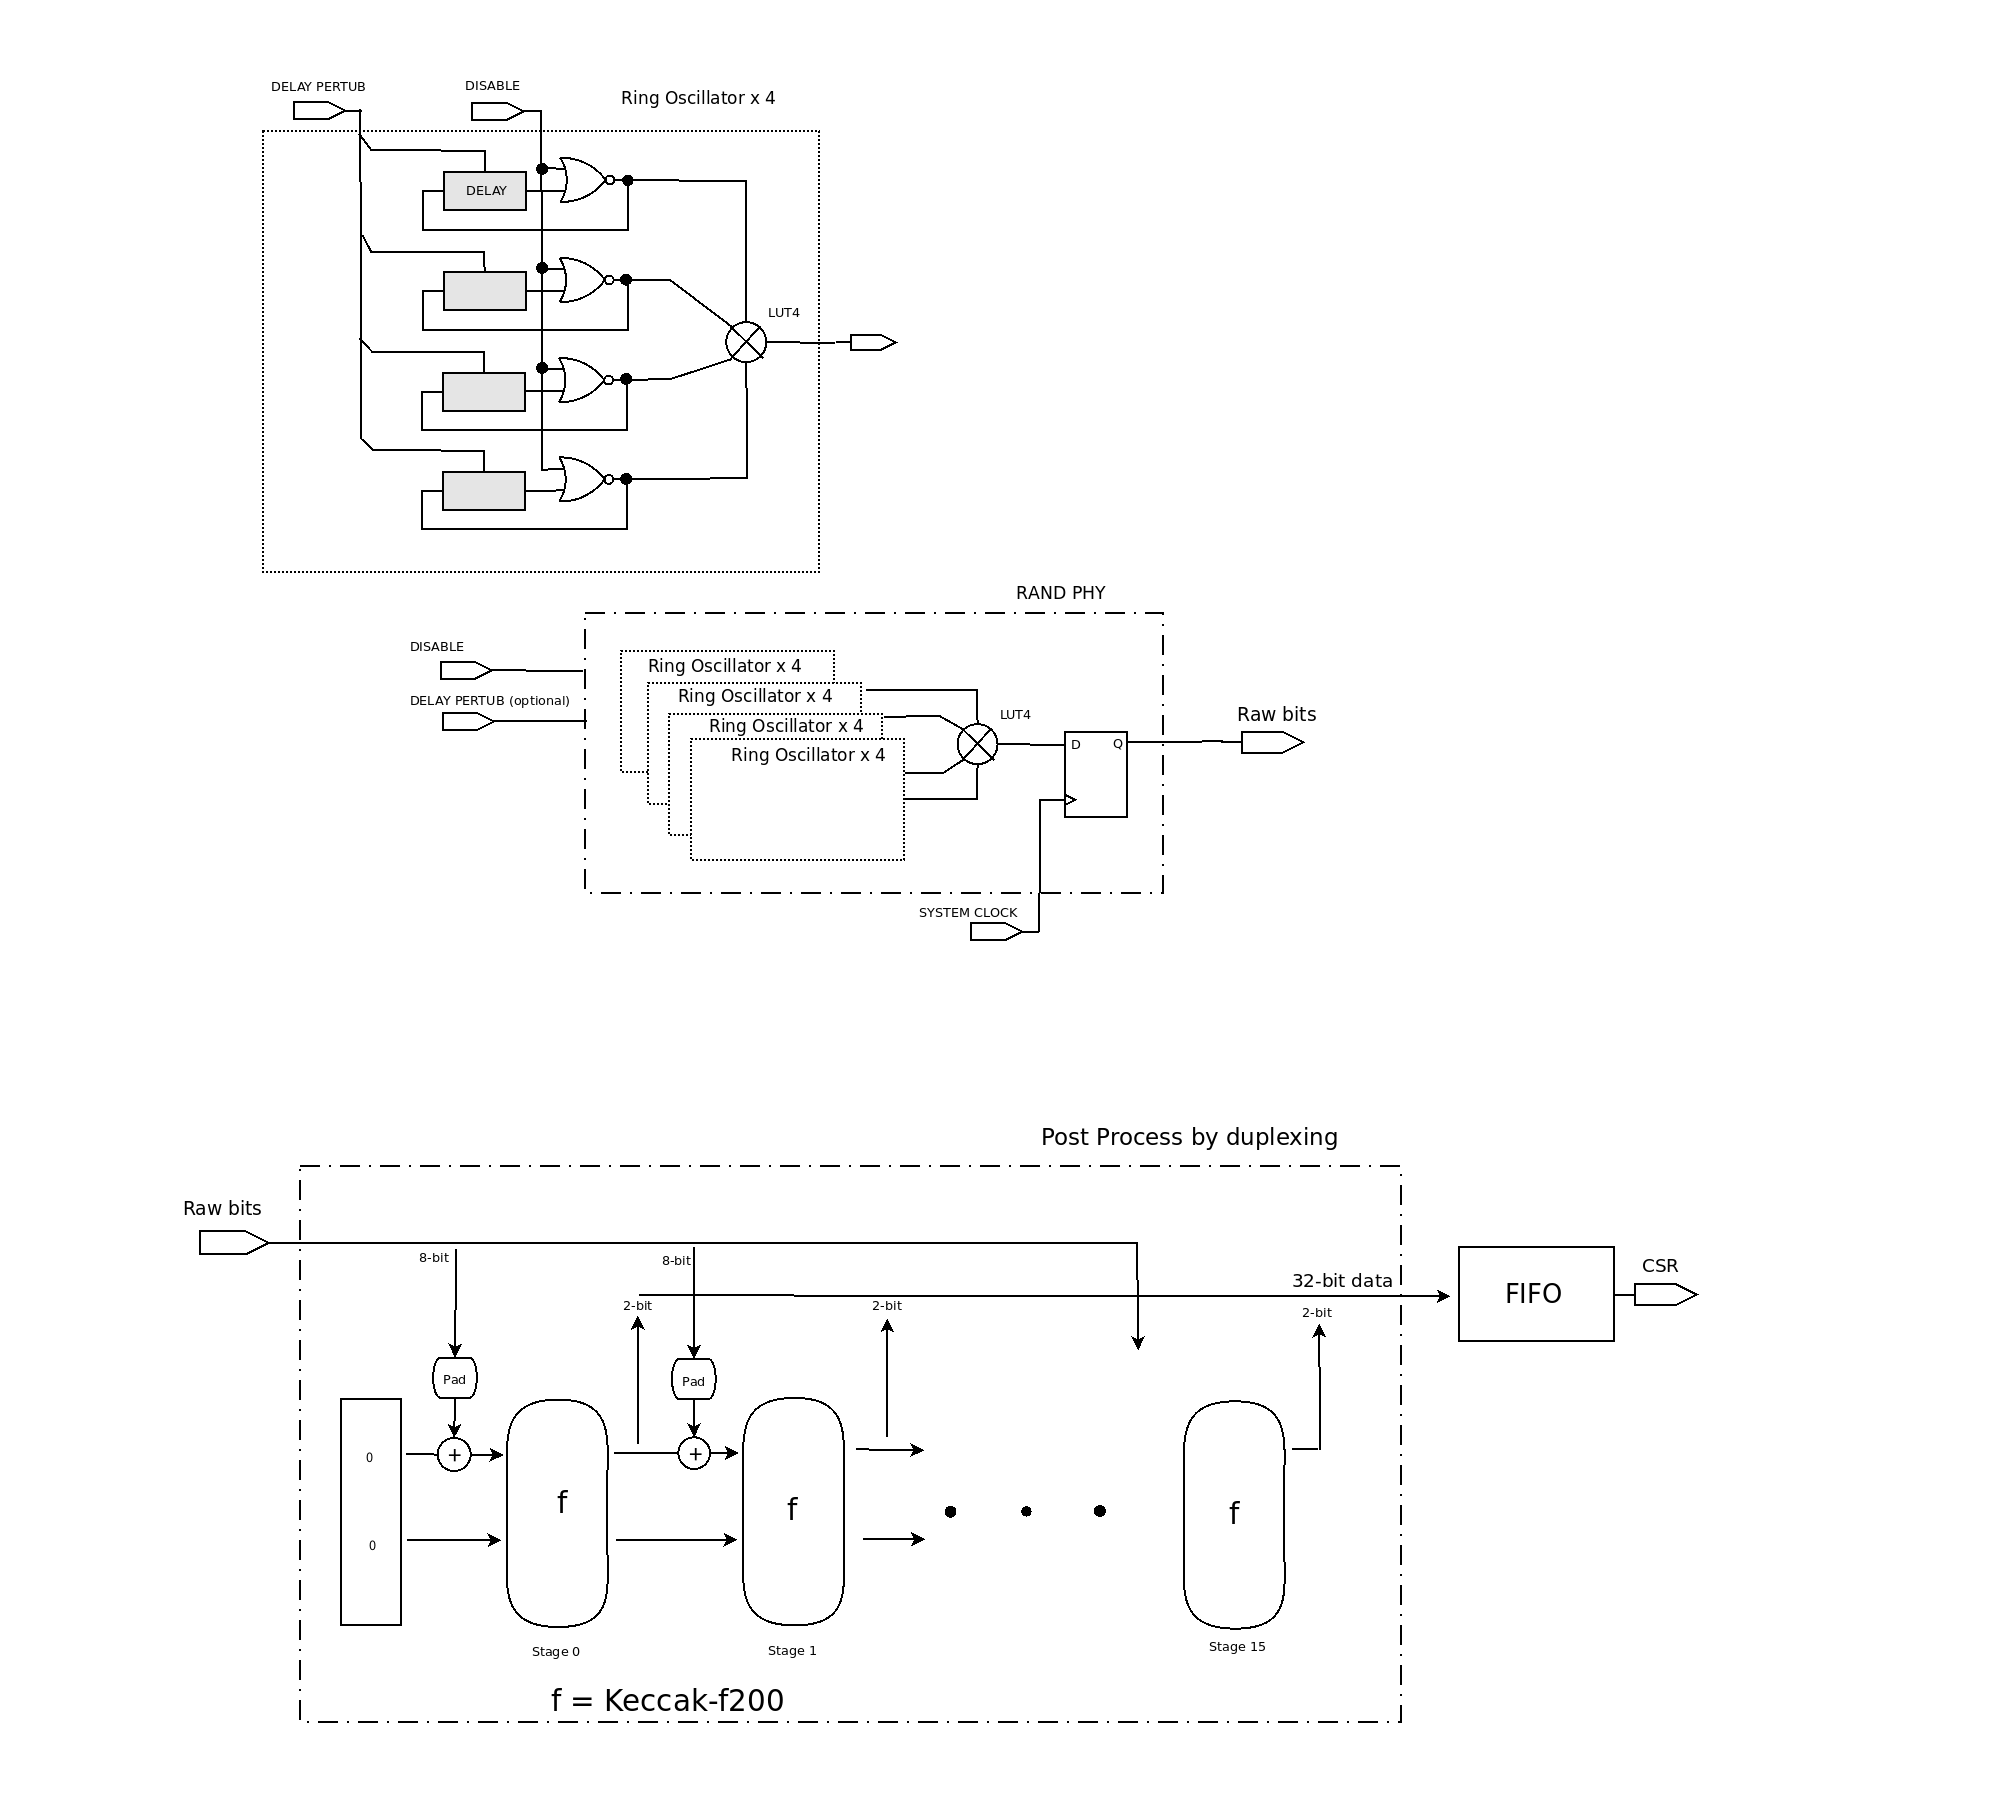
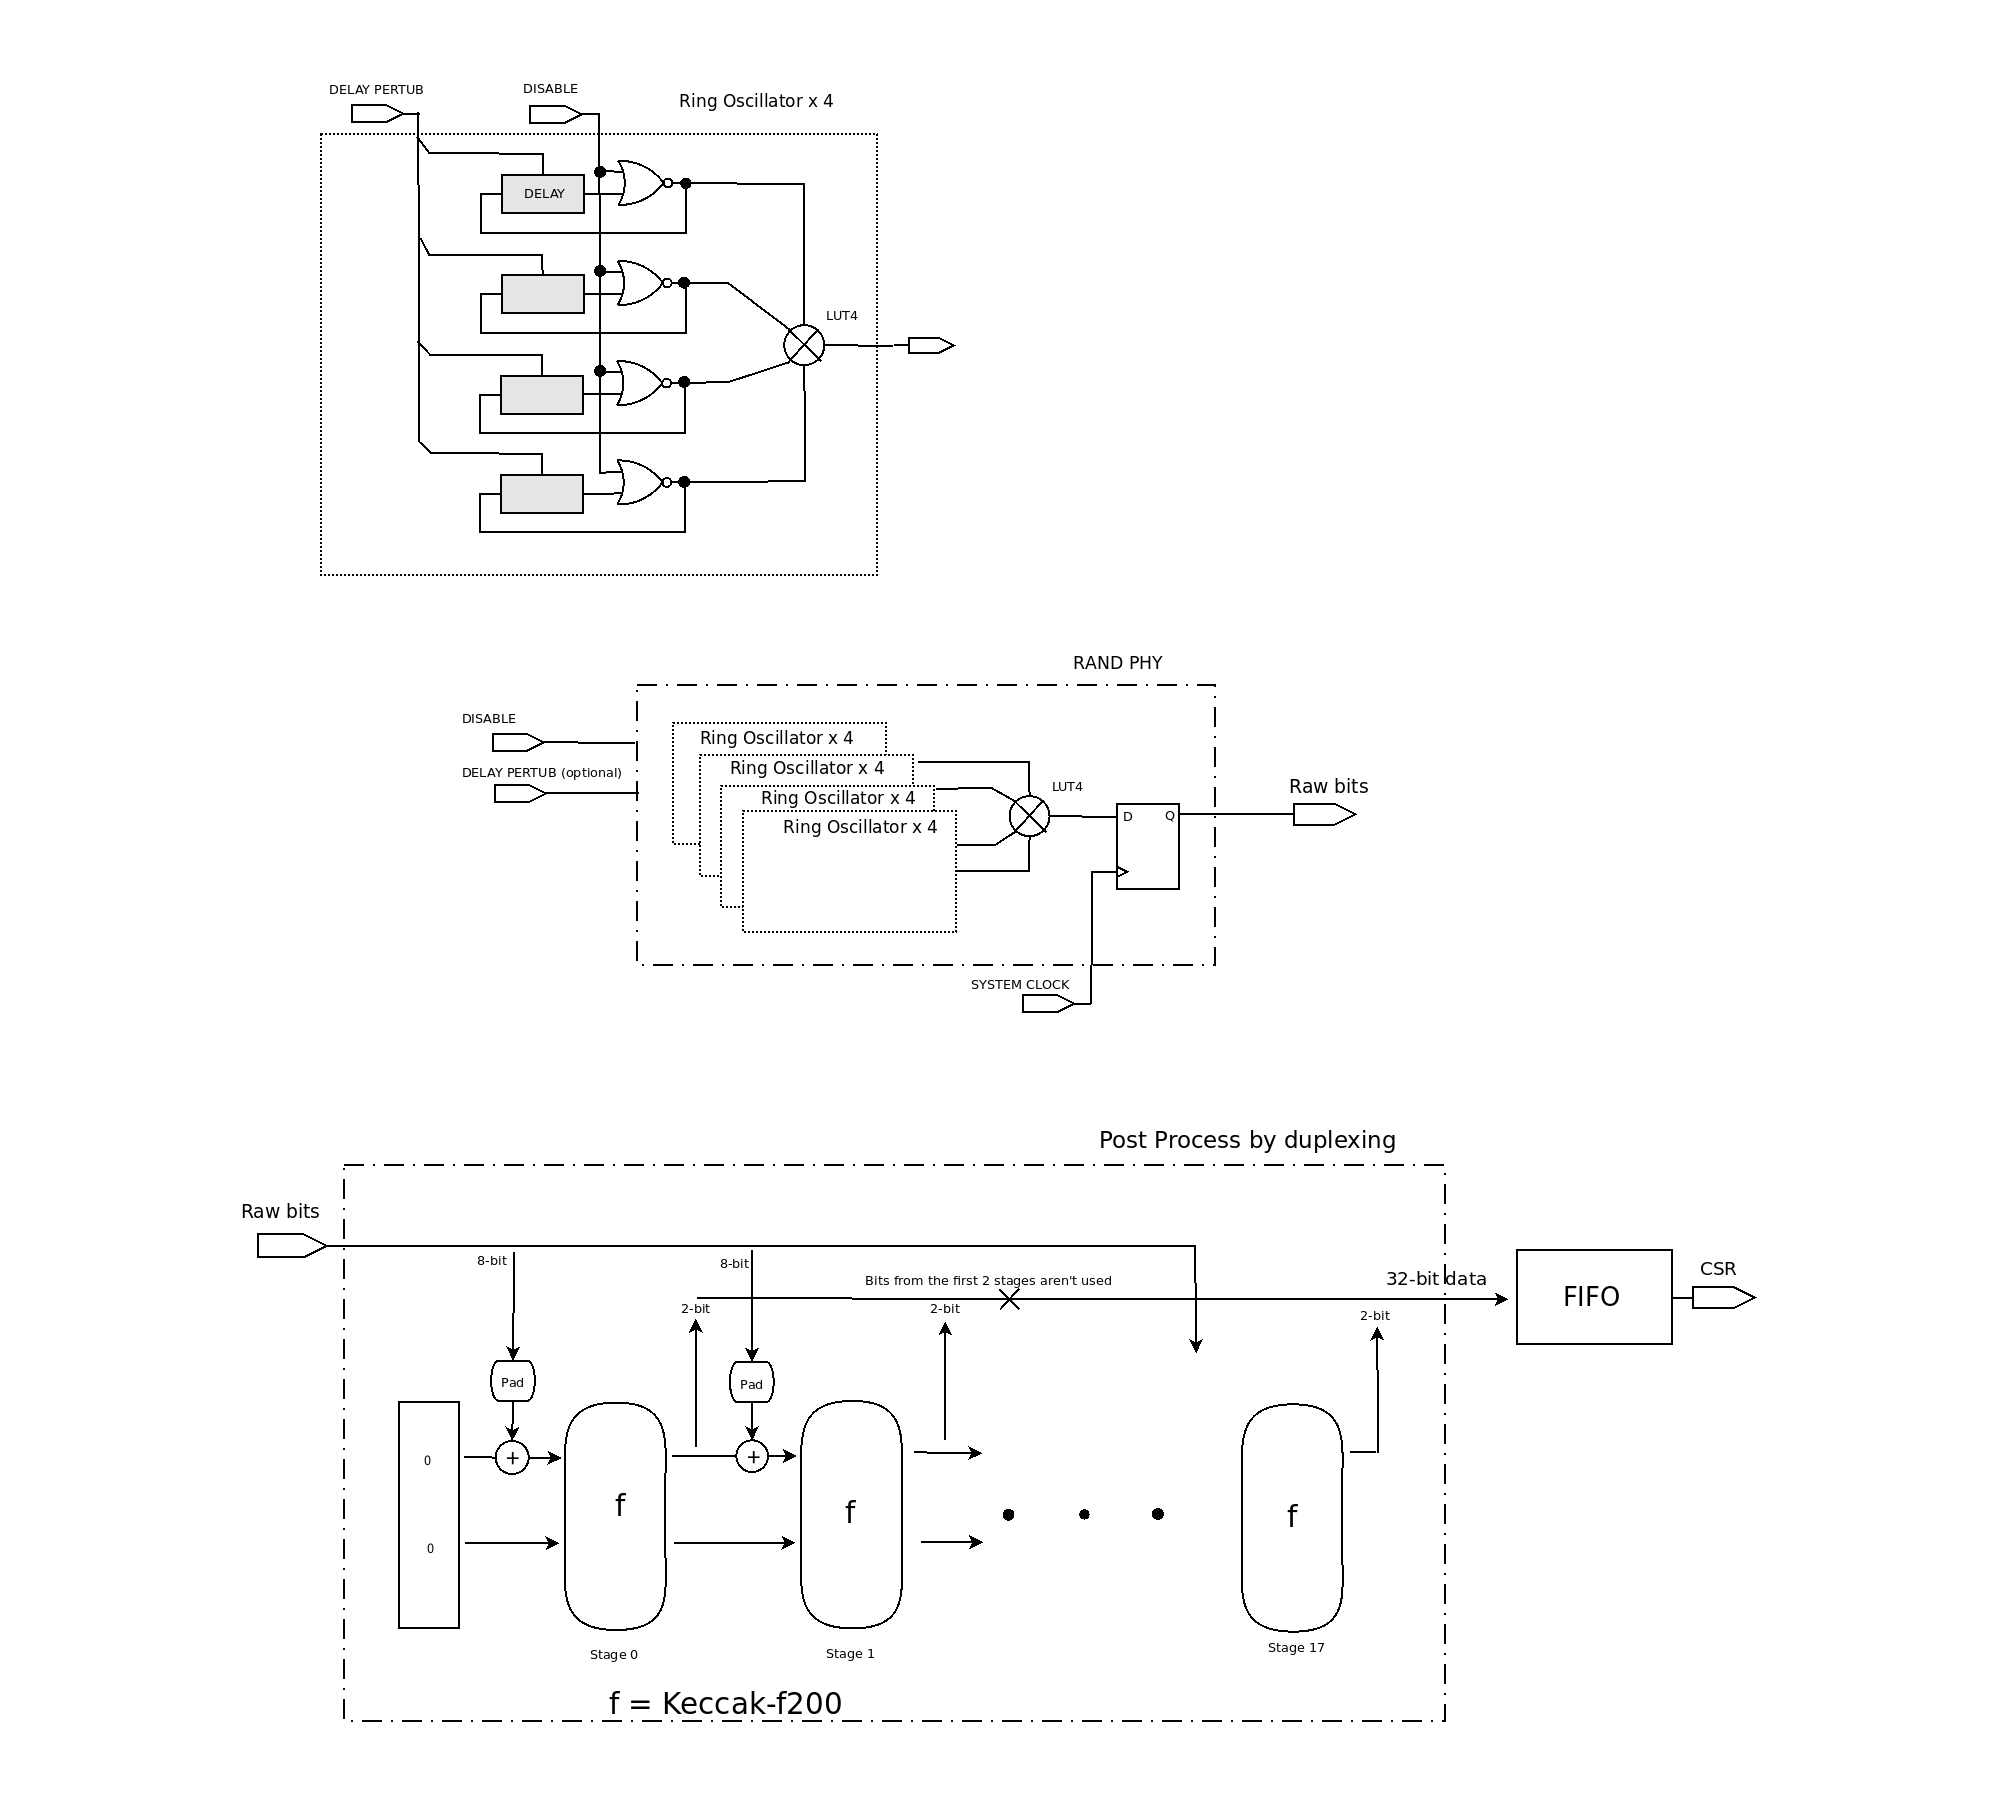
Fix figures.

diff --git a/README.md b/README.md
@@ -8,6 +8,8 @@ The current version of PHY is based on the phase jitter of 16 ring oscillators. 
 
 The PHY output is post-processed with the 18-stage duplexing module which is a conditional component. Each stage does duplexing with the Keccak-f200 function. A 32-bit random number is made by collecting a few bits from these stage's outputs. This random word can be read by CPU as CSR.
 
+![Diagram of LwTrng](https://github.com/kazkojima/lwtrng/blob/duplexPP/doc/trng.png)
+
 The resulted stream of random numbers are tested with dieharder and TestU01 with no significant problem.
 
 [> Features
@@ -17,6 +19,13 @@ The resulted stream of random numbers are tested with dieharder and TestU01 with
 [> Getting started
 ------------------
 **TODO**
+The post process module is writen with nMigen and the verilog output is needed to use it from LiteX ATM. The command below will generate it. 
+```
+pushd lwtrng/pp/verilog
+make
+popd
+```
+To register LwTrng module to your python environment, run setup.py.
 ```
 ./setup.py develope --user
 ```
